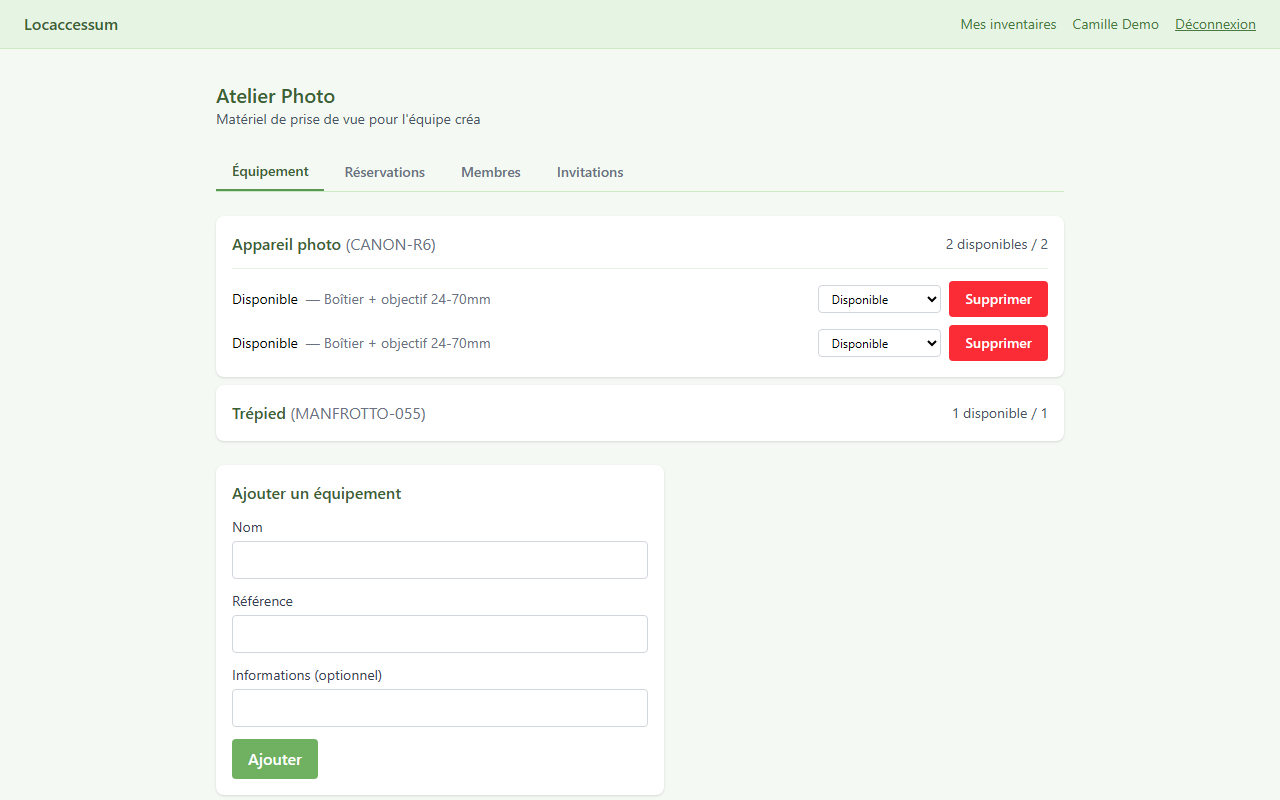
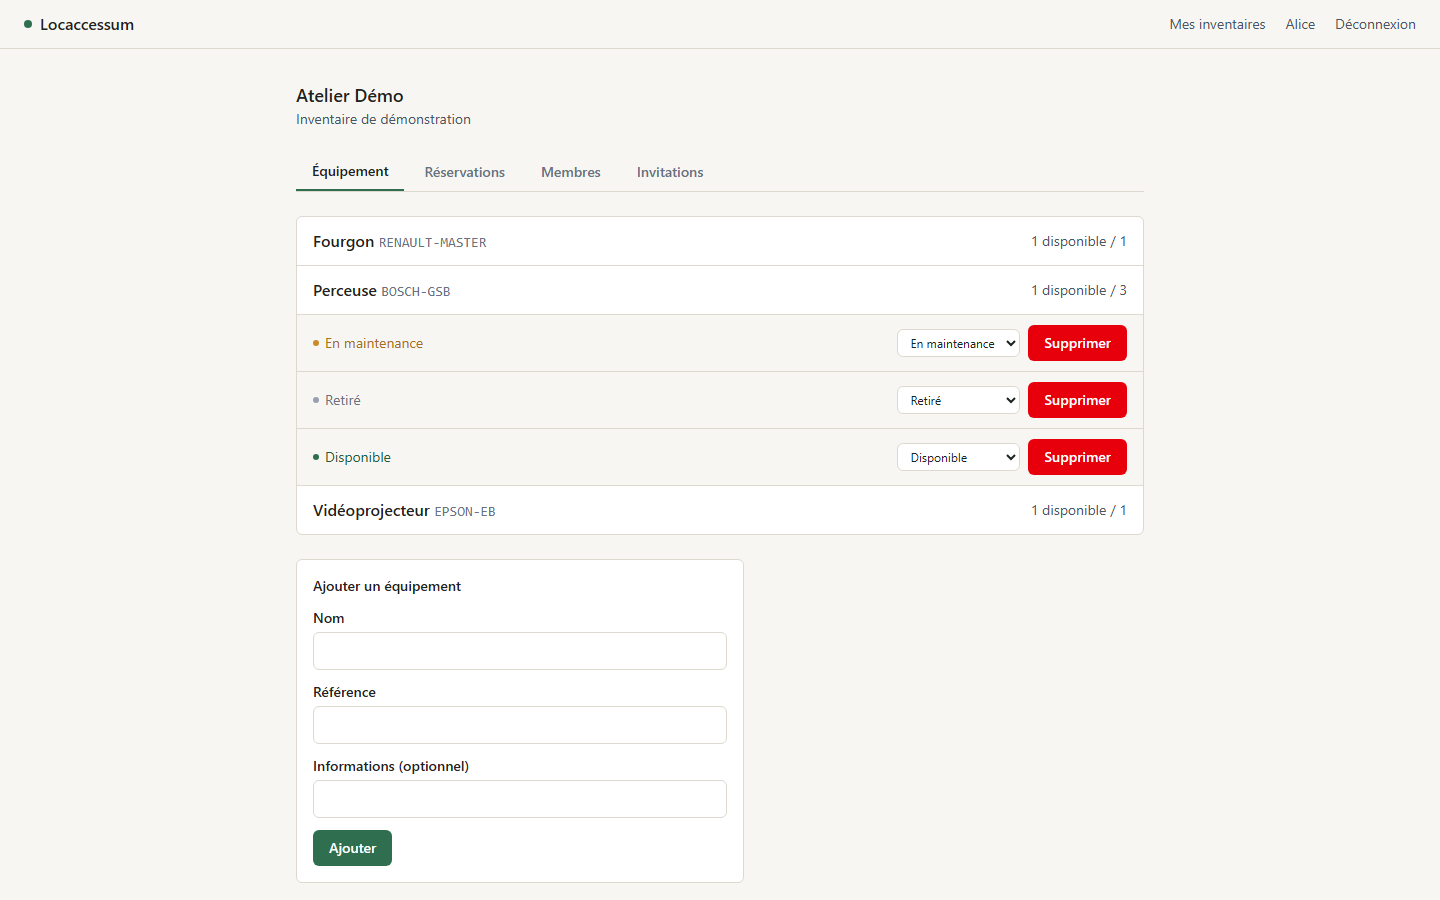
New screens for the README of the project

diff --git a/README.md b/README.md
@@ -154,9 +154,10 @@ pour les variables d'environnement statiques — à `http://localhost:8080`, c'e
 vue par le navigateur de l'utilisateur, pas l'adresse interne au réseau Docker utilisée par le
 worker.
 
-Le frontend est volontairement simple : thème Tailwind vert pastel, pas d'effets client lourds
-(pas d'animations complexes, pas de gestion d'état globale au-delà du contexte d'authentification),
-conformément aux objectifs de conception du plan.
+Le frontend reste volontairement simple côté logique (pas d'animations complexes, pas de gestion
+d'état globale au-delà du contexte d'authentification), avec une identité visuelle un peu plus
+soignée : vert pin sur fond papier chaud, IBM Plex Sans/Mono (les codes et références en
+police mono), listes en lignes de registre plutôt qu'en cartes.
 
 ### Captures d'écran
 
@@ -322,9 +323,10 @@ then served statically via `nginx:alpine`) and exposed on port `5173`. The API U
 `http://localhost:8080`, i.e. the address as seen by the user's browser, not the Docker-network-
 internal address the worker uses.
 
-The frontend is intentionally simple: a pastel-green Tailwind theme, no heavy client-side effects
-(no complex animations, no global state management beyond the auth context), per this plan's
-design goals.
+The frontend stays intentionally simple on the logic side (no complex animations, no global state
+management beyond the auth context), with a slightly more considered visual identity: pine green
+on a warm paper background, IBM Plex Sans/Mono (codes and references in the mono face), and
+ledger-style bordered rows instead of card grids.
 
 ### Screenshots
 
